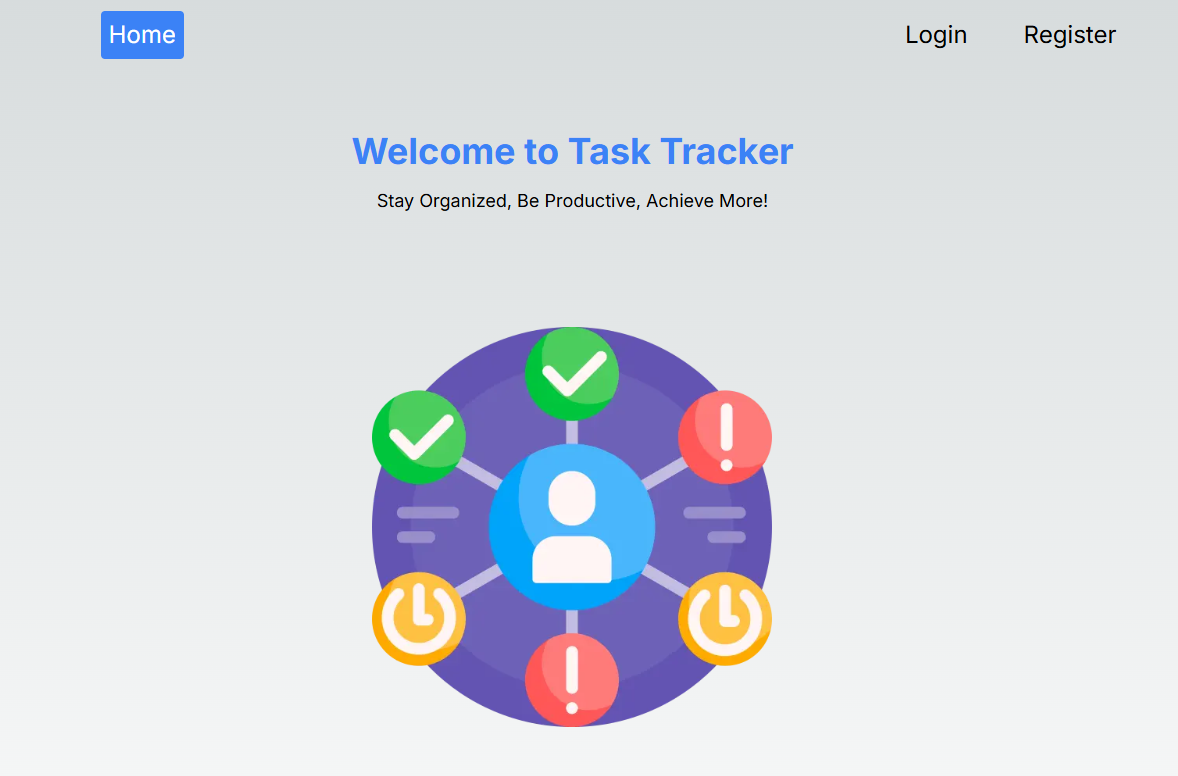
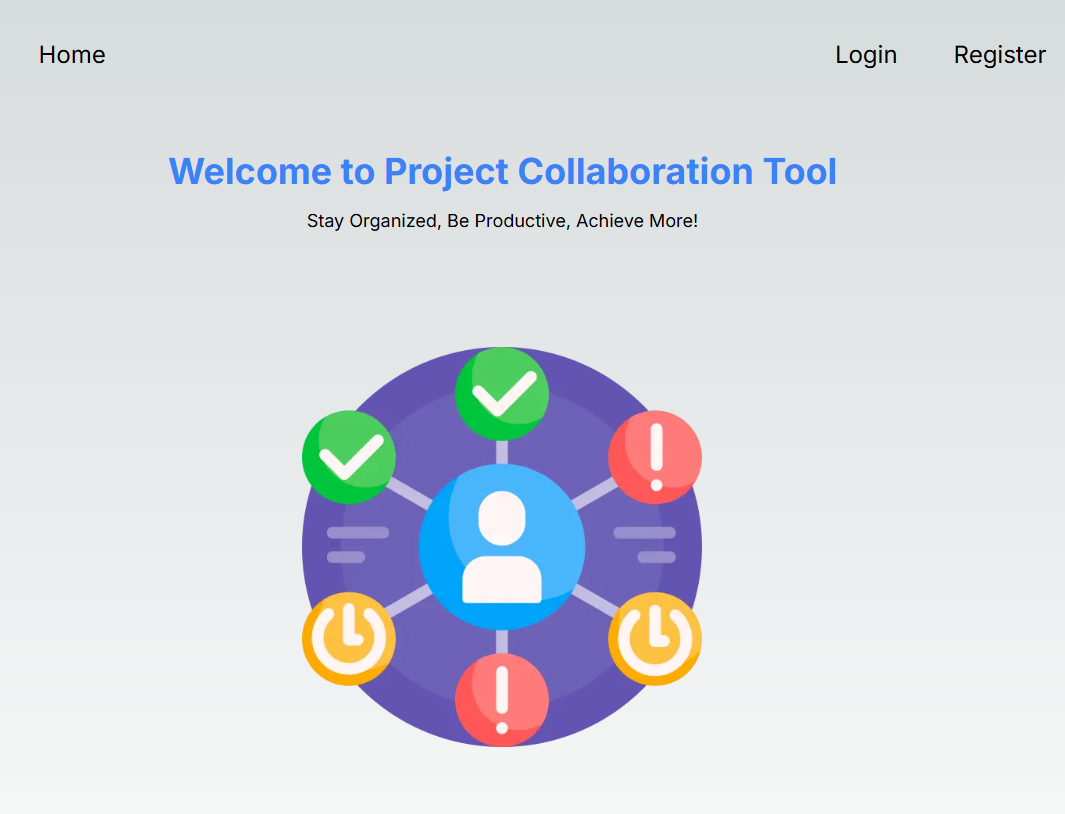
Final Changes for AI

diff --git a/frontend/src/app/teamChat/page.tsx b/frontend/src/app/teamChat/page.tsx
@@ -1,4 +1,6 @@
+
 "use client";
+
 import { useEffect, useState, useRef } from "react";
 import { Chat, Inputs, SignUp } from "@/components";
 import { io } from "socket.io-client";
@@ -10,10 +12,10 @@ export default function TeamChat() {
   const [chat, setChat] = useState([]);
   const [typing, setTyping] = useState([]);
   const [input, setInput] = useState("");
-  const [tasks, setTasks] = useState([]); // Store tasks
-  const [analysisResult, setAnalysisResult] = useState(null); // Store insights
-  const [isModalOpen, setIsModalOpen] = useState(false); // Toggle modal
-  const [loading, setLoading] = useState(false); // Loading state
+  const [tasks, setTasks] = useState([]);
+  const [analysisResult, setAnalysisResult] = useState(null);
+  const [isModalOpen, setIsModalOpen] = useState(false);
+  const [loading, setLoading] = useState(false);
   const user = useRef(null);
 
   const searchParams = useSearchParams();
@@ -24,7 +26,6 @@ export default function TeamChat() {
   const genAI = new GoogleGenerativeAI("AIzaSyC4Gaf5lLcHrpTacOol8xnD4JcRSInQEYM");
   const model = genAI.getGenerativeModel({ model: "gemini-1.5-flash" });
 
-  // Fetch tasks
   useEffect(() => {
     const fetchTasks = async () => {
       try {
@@ -48,7 +49,6 @@ export default function TeamChat() {
     fetchTasks();
   }, [roomId]);
 
-  // Socket setup
   useEffect(() => {
     if (!roomId) return;
 
@@ -100,7 +100,7 @@ export default function TeamChat() {
     try {
       const result = await model.generateContent(combinedInput);
       const response = await result.response;
-      setAnalysisResult(response.text()); // Store API response
+      setAnalysisResult(response.text());
       setIsModalOpen(true);
     } catch (error) {
       console.error("Error analyzing meeting notes:", error);
@@ -136,12 +136,6 @@ export default function TeamChat() {
             setInput={setInput}
             roomId={roomId}
           />
-          <button
-            className="bg-blue-500 text-white px-4 py-2 mt-4 rounded-md hover:bg-blue-600 transition"
-            onClick={analyzeMeetingNotes}
-          >
-            Analyze Meeting Notes
-          </button>
         </div>
       ) : (
         <div className="flex flex-grow items-center justify-center">
@@ -185,9 +179,15 @@ export default function TeamChat() {
           </div>
         </div>
       )}
+
+      {/* Floating Analyze Button */}
+      <div
+        className="fixed bottom-4 right-4 flex items-center justify-center cursor-pointer rounded-full bg-blue-500 w-28 h-28 shadow-lg hover:shadow-2xl transition"
+        onClick={analyzeMeetingNotes}
+        title="Analyze Meeting Notes"
+      >
+        <img src="/chatbot.png" alt="Analyze Meeting Notes" className="w-17 h-16" />
+      </div>
     </main>
   );
 }
-
-
-

diff --git a/frontend/src/app/login/page.tsx b/frontend/src/app/login/page.tsx
@@ -9,6 +9,9 @@ const Login = () => {
   const [error, setError] = useState("");
   const [loading, setLoading] = useState(false); // Loading state
   const { data: session, status: sessionStatus } = useSession();
+  const [email, setEmail] = useState("testing@gmail.com");
+  const [password, setPassword] = useState("testing@gmail.com");
+  const [showNotification, setShowNotification] = useState(true);
 
   useEffect(() => {
     if (sessionStatus === "authenticated") {
@@ -16,16 +19,22 @@ const Login = () => {
     }
   }, [sessionStatus, router]);
 
-  const isValidEmail = (email: string) => {
+  // Auto-dismiss notification after 5 seconds
+  useEffect(() => {
+    if (showNotification) {
+      const timer = setTimeout(() => setShowNotification(false), 5000);
+      return () => clearTimeout(timer); // Cleanup on component unmount or re-render
+    }
+  }, [showNotification]);
+
+  const isValidEmail = (email) => {
     const emailRegex = /^[A-Z0-9._%+-]+@[A-Z0-9.-]+\.[A-Z]{2,}$/i;
     return emailRegex.test(email);
   };
 
-  const handleSubmit = async (e: any) => {
+  const handleSubmit = async (e) => {
     e.preventDefault();
     setLoading(true); // Set loading to true
-    const email = e.target[0].value;
-    const password = e.target[1].value;
 
     if (!isValidEmail(email)) {
       setError("Email is invalid");
@@ -70,19 +79,30 @@ const Login = () => {
   return (
     sessionStatus !== "authenticated" && (
       <div className="flex min-h-screen flex-col items-center justify-between p-24">
+        {showNotification && (
+          <div className="fixed top-4 bg-green-500 text-white px-4 py-2 rounded shadow-md">
+            Sample credentials are already entered.
+          </div>
+        )}
         <div className="bg-[#212121] p-8 rounded shadow-md w-96">
-          <h1 className="text-4xl text-center font-semibold mb-8 text-white ">Login</h1>
+          <h1 className="text-4xl text-center font-semibold mb-8 text-white">
+            Login
+          </h1>
           <form onSubmit={handleSubmit}>
             <input
               type="text"
               className="w-full border border-gray-300 text-black rounded px-3 py-2 mb-4 focus:outline-none focus:border-blue-400 focus:text-black"
               placeholder="Email"
+              value={email}
+              onChange={(e) => setEmail(e.target.value)}
               required
             />
             <input
               type="password"
               className="w-full border border-gray-300 text-black rounded px-3 py-2 mb-4 focus:outline-none focus:border-blue-400 focus:text-black"
               placeholder="Password"
+              value={password}
+              onChange={(e) => setPassword(e.target.value)}
               required
             />
             <button

diff --git a/frontend/src/app/myProjects/page.tsx b/frontend/src/app/myProjects/page.tsx
@@ -134,6 +134,7 @@ const ProjectCard = ({ project, onEditClick, onDeleteClick, onAddTeammatesClick 
   
 
   const ProjectsPage = () => {
+    const { status } = useSession();
     const [projects, setProjects] = useState([]);
     const [isModalOpen, setIsModalOpen] = useState(false);
     const [isEditMode, setIsEditMode] = useState(false);
@@ -371,6 +372,7 @@ const ProjectCard = ({ project, onEditClick, onDeleteClick, onAddTeammatesClick 
     fetchTeammates();
     setIsTeammatesModalOpen(true);
   };
+  if (status === "unauthenticated") return <p>You are not logged in.</p>;
 
   return (
     <div className="container mx-auto p-4">

diff --git a/frontend/src/app/myTeam/page.tsx b/frontend/src/app/myTeam/page.tsx
@@ -4,6 +4,8 @@ import { useEffect, useState } from "react";
 import { useSession } from "next-auth/react";
 
 const TeamsPage = () => {
+  const { status } = useSession();
+
   const { data: session } = useSession();
   const [teammates, setTeammates] = useState([]);
   const [isModalOpen, setIsModalOpen] = useState(false);
@@ -112,6 +114,8 @@ const TeamsPage = () => {
       console.error("Error deleting teammate:", error);
     }
   };
+  if (status === "unauthenticated") return <p>You are not logged in.</p>;
+
 
   return (
     <div className="p-6">

diff --git a/frontend/src/app/layout.tsx b/frontend/src/app/layout.tsx
@@ -9,7 +9,7 @@ import SessionProvider from "@/utils/SessionProvider";
 const inter = Inter({ subsets: ["latin"] });
 
 export const metadata: Metadata = {
-  title: "Create Next App",
+  title: "Project Collab Tool",
   description: "Generated by create next app",
 };
 
